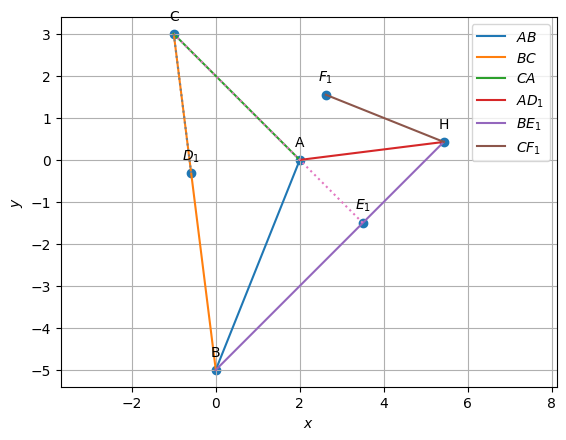
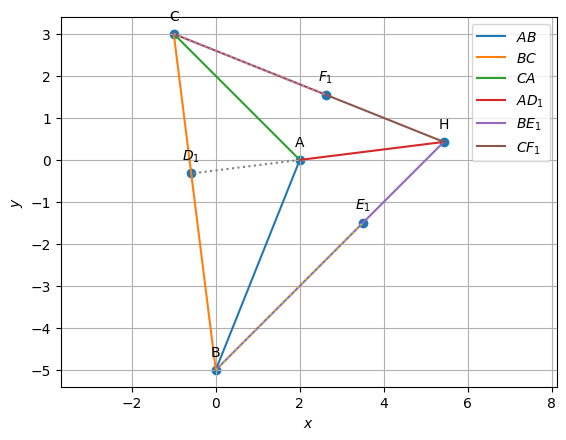
secondcommit

diff --git a/random_vec/altitude/codes/section3.py b/random_vec/altitude/codes/section3.py
@@ -3,7 +3,7 @@ import matplotlib.pyplot as plt
 import matplotlib.image as mpimg
 
 import sys
-sys.path.insert(0,'/Users/aneka/Downloads/RandomVariable/EE23010/random_vec/CoordGeo')
+sys.path.insert(0,'../../CoordGeo')
 from line.funcs import *
 from triangle.funcs import alt_foot
 
@@ -43,9 +43,10 @@ x_BC = line_gen(B,C)
 x_CA = line_gen(C,A)
 x_AH = line_gen(H,A)
 x_BH = line_gen(B,H)
-x_CH = line_gen(F,H)
-x_CE = line_gen(C,E)
-x_CD = line_gen(C,D)
+x_CH = line_gen(C,H)
+x_CF = line_gen(C,F)
+x_AD = line_gen(A,D)
+x_BE = line_gen(B,E)
 
 #Plotting all lines
 plt.plot(x_AB[0,:],x_AB[1,:],label='$AB$')
@@ -54,8 +55,9 @@ plt.plot(x_CA[0,:],x_CA[1,:],label='$CA$')
 plt.plot(x_AH[0,:],x_AH[1,:],label='$AD_1$')
 plt.plot(x_BH[0,:],x_BH[1,:],label='$BE_1$')
 plt.plot(x_CH[0,:],x_CH[1,:],label='$CF_1$')
-plt.plot(x_CE[0,:],x_CE[1,:],linestyle='dotted')
-plt.plot(x_CD[0,:],x_CD[1,:],linestyle='dotted')
+plt.plot(x_CF[0,:],x_CF[1,:],linestyle='dotted')
+plt.plot(x_AD[0,:],x_AD[1,:],linestyle='dotted')
+plt.plot(x_BE[0,:],x_BE[1,:],linestyle='dotted')
 
 A = A.reshape(-1,1)
 B = B.reshape(-1,1)

diff --git a/random_vec/vectors/tables/sec1.tex b/random_vec/vectors/tables/sec1.tex
@@ -271,7 +271,7 @@
 	 \multicolumn{2}{|p{	\gnumericColA+%
 	\gnumericColB+%
 	\tabcolsep*2*1}|}%
-	{\gnumericPB{\centering}\gnumbox{$\norm{A-B}$}}
+	{\gnumericPB{\centering}\gnumbox{$\norm{\vec{A}-\vec{B}}$}}
 	&\multicolumn{2}{p{	\gnumericColC+%
 	\gnumericColD+%
 	\tabcolsep*2*1}|}%
@@ -286,7 +286,7 @@
 	 \multicolumn{2}{|p{	\gnumericColA+%
 	\gnumericColB+%
 	\tabcolsep*2*1}|}%
-	{\gnumericPB{\centering}\gnumbox{$\norm{B-C}$}}
+	{\gnumericPB{\centering}\gnumbox{$\norm{\vec{B}-\vec{C}}$}}
 	&\multicolumn{2}{p{	\gnumericColC+%
 	\gnumericColD+%
 	\tabcolsep*2*1}|}%
@@ -301,7 +301,7 @@
 	 \multicolumn{2}{|p{	\gnumericColA+%
 	\gnumericColB+%
 	\tabcolsep*2*1}|}%
-	{\gnumericPB{\centering}\gnumbox{$\norm{C-A}$}}
+	{\gnumericPB{\centering}\gnumbox{$\norm{\vec{C}-\vec{A}}$}}
 	&\multicolumn{2}{p{	\gnumericColC+%
 	\gnumericColD+%
 	\tabcolsep*2*1}|}%
